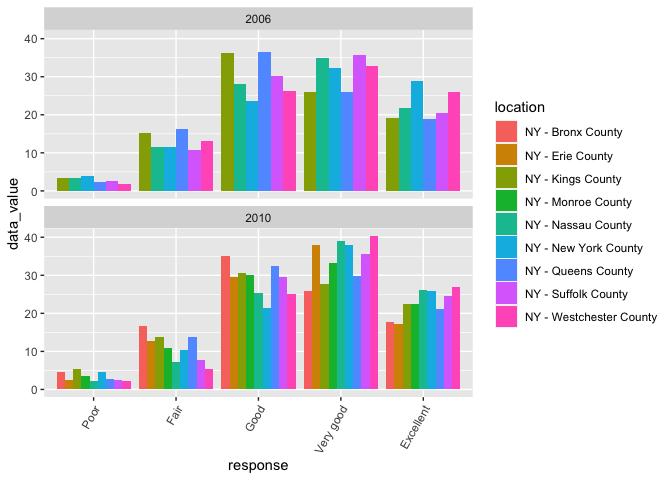
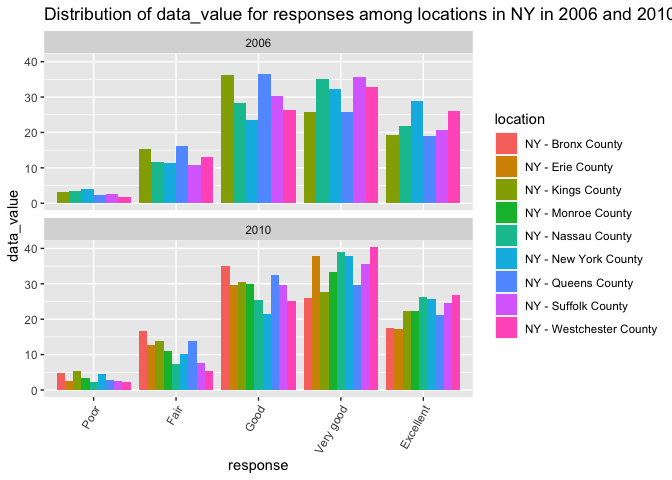
Question 3 progress

diff --git a/p8105_hw3_clk2162.md b/p8105_hw3_clk2162.md
@@ -142,6 +142,9 @@ instacart %>%
 
 # Problem 2
 
+This problem has to do with several things, we are focusing on self
+reported health over locations and years.
+
 Load data
 
 ``` r
@@ -319,7 +322,8 @@ brfss_smart2010_overall_health %>%
   ggplot(aes(x = response, y = data_value, fill = location)) +
   geom_bar(stat = "identity", position = "dodge") +
   facet_wrap(~year, ncol = 1) +
-  theme(axis.text.x = element_text(angle = 60, hjust = 1))
+  theme(axis.text.x = element_text(angle = 60, hjust = 1)) +
+  labs(title = "Distribution of data_value for responses among locations in NY in 2006 and 2010")
 ```
 
 ![](p8105_hw3_clk2162_files/figure-gfm/q2_excellent_and_spaghetti-2.png)<!-- -->
@@ -336,7 +340,114 @@ brfss_smart2010_overall_health %>%
 #  ggplot(aes(x = response, y = data_value, fill = location)) +
   geom_bar(stat = "identity", position = "dodge") +
   facet_wrap(~year, ncol = 1) +
-  theme(axis.text.x = element_text(angle = 60, hjust = 1))
+  theme(axis.text.x = element_text(angle = 60, hjust = 1)) +
+  labs(title = "Distribution of data_value for responses among locations in NY in 2006 and 2010")
 ```
 
 ![](p8105_hw3_clk2162_files/figure-gfm/q2_excellent_and_spaghetti-3.png)<!-- -->
+
+## Problem 3
+
+This problem has to do with accelerometers in observational studies and
+clinical trials.
+
+Load, clean, and tidy data.
+
+``` r
+nhanes_accel <- read_csv("./data/nhanes_accel.csv")
+```
+
+    ## Rows: 250 Columns: 1441
+    ## ── Column specification ────────────────────────────────────────────────────────
+    ## Delimiter: ","
+    ## dbl (1441): SEQN, min1, min2, min3, min4, min5, min6, min7, min8, min9, min1...
+    ## 
+    ## ℹ Use `spec()` to retrieve the full column specification for this data.
+    ## ℹ Specify the column types or set `show_col_types = FALSE` to quiet this message.
+
+``` r
+nhanes_covar <- read_csv("./data/nhanes_covar.csv", skip = 4)
+```
+
+    ## Rows: 250 Columns: 5
+    ## ── Column specification ────────────────────────────────────────────────────────
+    ## Delimiter: ","
+    ## dbl (5): SEQN, sex, age, BMI, education
+    ## 
+    ## ℹ Use `spec()` to retrieve the full column specification for this data.
+    ## ℹ Specify the column types or set `show_col_types = FALSE` to quiet this message.
+
+``` r
+nhanes_accel <- nhanes_accel %>% 
+  janitor::clean_names() %>% 
+  mutate(seqn = as.character(seqn)) 
+  
+nhanes_covar <- nhanes_covar %>% 
+  janitor::clean_names() %>% 
+  filter(age > 21) %>% 
+  filter(!is.na(age) & !is.na(sex) & !is.na(bmi) & !is.na(education)) %>%
+  mutate(sex = as.character(sex)) %>% 
+  mutate(education = as.character(education)) %>% 
+  mutate(sex = case_match(sex,
+                          "1" ~ "male",
+                          "2" ~ "female")) %>% 
+  mutate(education = case_match(education,
+                                "1" ~ "less_than_high_school",
+                                "2" ~ "high_school_equivalent",
+                                "3" ~ "more_than_high_school")) %>%
+  mutate(education = fct_relevel(education, c("less_than_high_school", "high_school_equivalent", "more_than_high_school"))) %>% 
+  mutate(seqn = as.character(seqn)) %>% 
+  mutate(sex = as.factor(sex))
+  
+
+# combine the two dfs
+
+nhanes_df <- inner_join(nhanes_covar, nhanes_accel, by = "seqn")
+```
+
+Now we will explore the education distribution over demographic
+variables.
+
+``` r
+# Table showing the number of men and women in each education category
+
+education_sex <- nhanes_covar %>% 
+  select(sex, education) %>% 
+  group_by(education, sex) %>%
+  count(education, sex) %>% 
+  pivot_wider(names_from = sex,
+              values_from = n)
+
+knitr::kable(education_sex)
+```
+
+| education              | female | male |
+|:-----------------------|-------:|-----:|
+| less_than_high_school  |     28 |   27 |
+| high_school_equivalent |     23 |   34 |
+| more_than_high_school  |     59 |   54 |
+
+From the table, we see that the most common education level is more than
+high school. The distributions are relatively similar between sexes,
+except that there are substantially more males than females in the high
+school equivalent category.
+
+``` r
+# visualization of the age distributions for men and women in each education category
+
+library(ggridges)
+
+nhanes_covar %>%
+  ggplot(aes(x = education, y = age, fill = sex)) +
+  geom_violin()
+```
+
+![](p8105_hw3_clk2162_files/figure-gfm/q3_education_age_sex-1.png)<!-- -->
+
+``` r
+  geom_density_ridges(alpha = 0.2)
+```
+
+    ## geom_density_ridges: na.rm = FALSE, panel_scaling = TRUE
+    ## stat_density_ridges: na.rm = FALSE
+    ## position_points_sina
